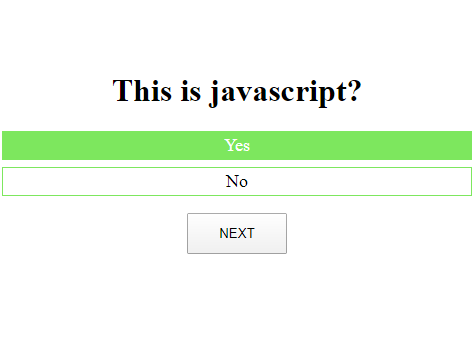
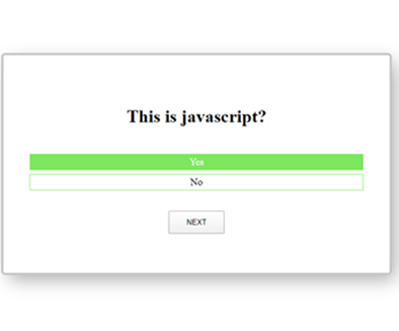
quiz

Changed region(s): [[0.0, 0.1511, 1.0, 0.8761], [0.391, 0.6042, 0.6316, 0.7553]]

diff --git a/quiz/quizScript.js b/quiz/quizScript.js
@@ -23,10 +23,12 @@ function Question(question, answers, correctAnswer) {
     this.correctOrWrong = () => {                
         let a = document.querySelectorAll(".answer");
 
-        for(let i=0; i<this.answers.length; i++){
-            a[i].classList.remove("selected");
-            a[i].addEventListener('click', () => {
-                a[i].classList.add("selected");
+        for(let i=0; i<this.answers.length; i++){    
+            if(a[i].className == 'selected'){ 
+                a[i].classList.toggle("selected");   
+            }   
+            a[i].addEventListener('click', () => {    
+                a[i].classList.add("selected"); 
                 if(this.answers[i] == this.answers[this.correctAnswer]){
                     console.log("TRUE");
                     score += 5;
@@ -36,7 +38,7 @@ function Question(question, answers, correctAnswer) {
                     console.log("False! Try again...");
                     score -= 2;
                     console.log(score);                    
-                }
+                } 
             });
         }
     }
@@ -46,27 +48,23 @@ let q1 = new Question("This is javascript?", ["Yes", "No"], 0);
 let q2 = new Question("5 * 7?", ["5", "61", "20", "35", "40"], 3);
 let q3 = new Question("100 - 22?", ["50", "100", "80", "40", "78"], 4);
 let q4 = new Question("9 * 0?", ["90", "1", "0", "9"], 2);
-let q5 = new Question("1 + 978?", ["5", "1", "2", "3"], 2);
-let q6 = new Question("5 * 45645?", ["5", "61", "20", "35", "40"], 3);
+let q5 = new Question("11 + 20?", ["30", "1120", "21", "31"], 3);
+let q6 = new Question("0 / 45645?", ["0", "0.45645", "infinty"], 0);
 let q7 = new Question("100 - 321?", ["50", "100", "80", "40", "78"], 4);
-let q8 = new Question("9 * 123?", ["90", "1", "0", "9"], 2);
+let q8 = new Question("9 * 10?", ["10", "90", "130", "900"], 1);
 
 let questions = [q1, q2, q3, q4, q5, q6, q7, q8];
-// shuffle(questions);
+shuffle(questions);
 let len = questions.length;
 let x = 0;
 
 let rnd = Math.round(Math.random() * 8);
 
-// questions[x].display();
-// questions[x].correctOrWrong();
-
 finish.addEventListener('click', () => {
-    // alert(`${score}, ${trueAnswer}/${questions.length}`);
     let perc = (trueAnswer / questions.length) * 100;
     displayDiv.innerHTML = `<h1>Your result: ${trueAnswer}/${questions.length}</h1>
                             <h3>${perc}%</h3>
-                            <button>TRY AGAIN</button>
+                            <a href=""><button>TRY AGAIN</button></a>
                             `
 
 })

diff --git a/index.html b/index.html
@@ -7,13 +7,17 @@
     <link rel="stylesheet" href="style.css">
 </head>
 <body>  
-    <div id="calcDiv">
+    <div id="calcDiv" class="asDiv">
         <h2>Simple calculator</h2>
-        <a href="calculator/calculator.html"><img src="img/calculator.png"></a>
+        <a href="calculator/calculator.html"><img src="img/calculator.png"></a>     
     </div>
-    <div id="clockDiv">
+    <div id="clockDiv" class="asDiv">
         <h2>Analog clock</h2>
         <a href="clock/clock.html"><img src="img/clock.png"></a>
+    </div>
+    <div id="quizDiv" class="asDiv">
+        <h2>Quiz</h2>
+        <a href="quiz/quiz.html"><img src="img/quiz.png"></a>
     </div>
 
     <script src="script.js"></script>

diff --git a/quiz/quiz.css b/quiz/quiz.css
@@ -1,8 +1,14 @@
 .quiz{
     text-align: center;
-    padding: 100px 0;
+    padding: 70px 0;
     width: 50%;
-    margin: auto;
+    margin: 100px auto;
+    border: 4px solid #C8C6C6;
+    box-shadow: 10px 12px 34px -5px #a8a8a8;
+    border-radius: 7px;
+}
+.answersList{
+    padding: 20px 40px;
 }
 .answersList li{
     list-style-type: none;
@@ -14,6 +20,10 @@
     user-select: none;
 }
 .answersList li:hover{
+    background-color: #7DE75E;
+    color: white;
+}
+.answersList li:checked{
     background-color: #7DE75E;
     color: white;
 }

diff --git a/script.js b/script.js
@@ -1,9 +1,12 @@
 const calculator = document.getElementById("calcDiv");
 const clock = document.getElementById("clockDiv");
+const quiz = document.getElementById("quizDiv");
 
 window.addEventListener('load', () => {
     calculator.style.marginLeft = '0';
     calculator.style.opacity = '1';
     clock.style.marginLeft = '0';
     clock.style.opacity = '1';
+    quiz.style.marginLeft = '0';
+    quiz.style.opacity = '1';
 })

diff --git a/style.css b/style.css
@@ -5,9 +5,13 @@ h1{
     text-align: center;
 }
 div{
-    padding: 20px;
+    padding: 20px 35px;
     margin-left: -150px;
     opacity: 0;
     transition: all 1s;
     display: inline-block;
+}
+img{
+    width: 330px;
+    height: 315px;
 }

diff --git a/navigation.css b/navigation.css
@@ -1,6 +1,5 @@
 body{
     transition: all 0.5s;
-    overflow: hidden;
 }
 nav{
     z-index: 1;
